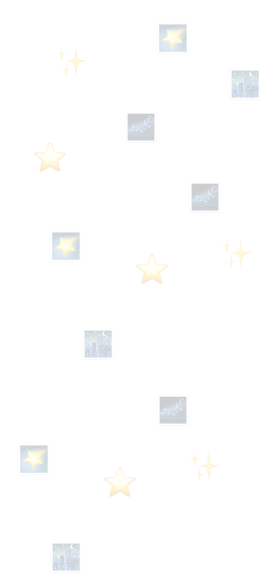
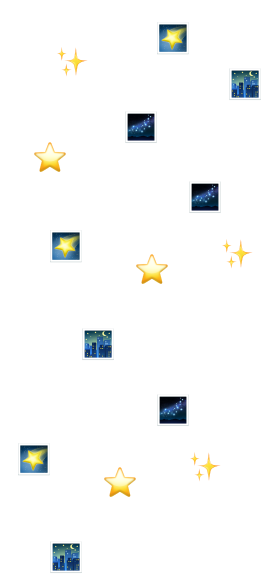
Improve background contrast on mobile

diff --git a/src/routes/+layout.svelte b/src/routes/+layout.svelte
@@ -32,23 +32,24 @@
 	:global(:root) {
 		--body: #eee8d8;
 		--bg-image: url("/background.png");
+		--bg-opacity: 0.2;
 		--text: #634904;
 		--text-harsh: #000;
 		--border: #634904;
 		--highlight: #f7d26f;
 	}
 
-	@media (prefers-color-scheme: dark) {
-		:global(:root) {
-			--body: #01030d;
-			--bg-image: url("/background-dark.png");
-			--text: #767b9a;
-			--text-harsh: #717797;
-			--border: #292d46;
-			--highlight: url("https://png.pngtree.com/thumb_back/fh260/background/20210126/pngtree-cartoon-five-pointed-star-solid-color-background-image_541007.jpg"),
-				#2626a2;
-		}
-	}
+	// @media (prefers-color-scheme: dark) {
+	// 	:global(:root) {
+	// 		--body: #01030d;
+	// 		--bg-image: url("/background-dark.png");
+	// 		--text: #767b9a;
+	// 		--text-harsh: #717797;
+	// 		--border: #292d46;
+	// 		--highlight: url("https://png.pngtree.com/thumb_back/fh260/background/20210126/pngtree-cartoon-five-pointed-star-solid-color-background-image_541007.jpg"),
+	// 			#2626a2;
+	// 	}
+	// }
 
 	:global(body) {
 		margin: 0;
@@ -57,10 +58,19 @@
 			sans-serif;
 		overflow-x: hidden;
 
-		background-image: var(--bg-image);
-
 		background-color: var(--body);
 		color: var(--text);
+		position: relative;
+	}
+	:global(body::before) {
+		content: "";
+		position: absolute;
+		top: 0;
+		left: 0;
+		width: 100%;
+		height: 100%;
+		opacity: var(--bg-opacity);
+		background-image: var(--bg-image);
 	}
 	:global(*) {
 		box-sizing: border-box;
@@ -104,6 +114,10 @@
 	}
 
 	@media (max-width: 1000px) {
+		:global(:root) {
+			--text: #231a02;
+			--bg-opacity: 0.15;
+		}
 		.body {
 			padding-left: 0;
 			padding-right: 0;
